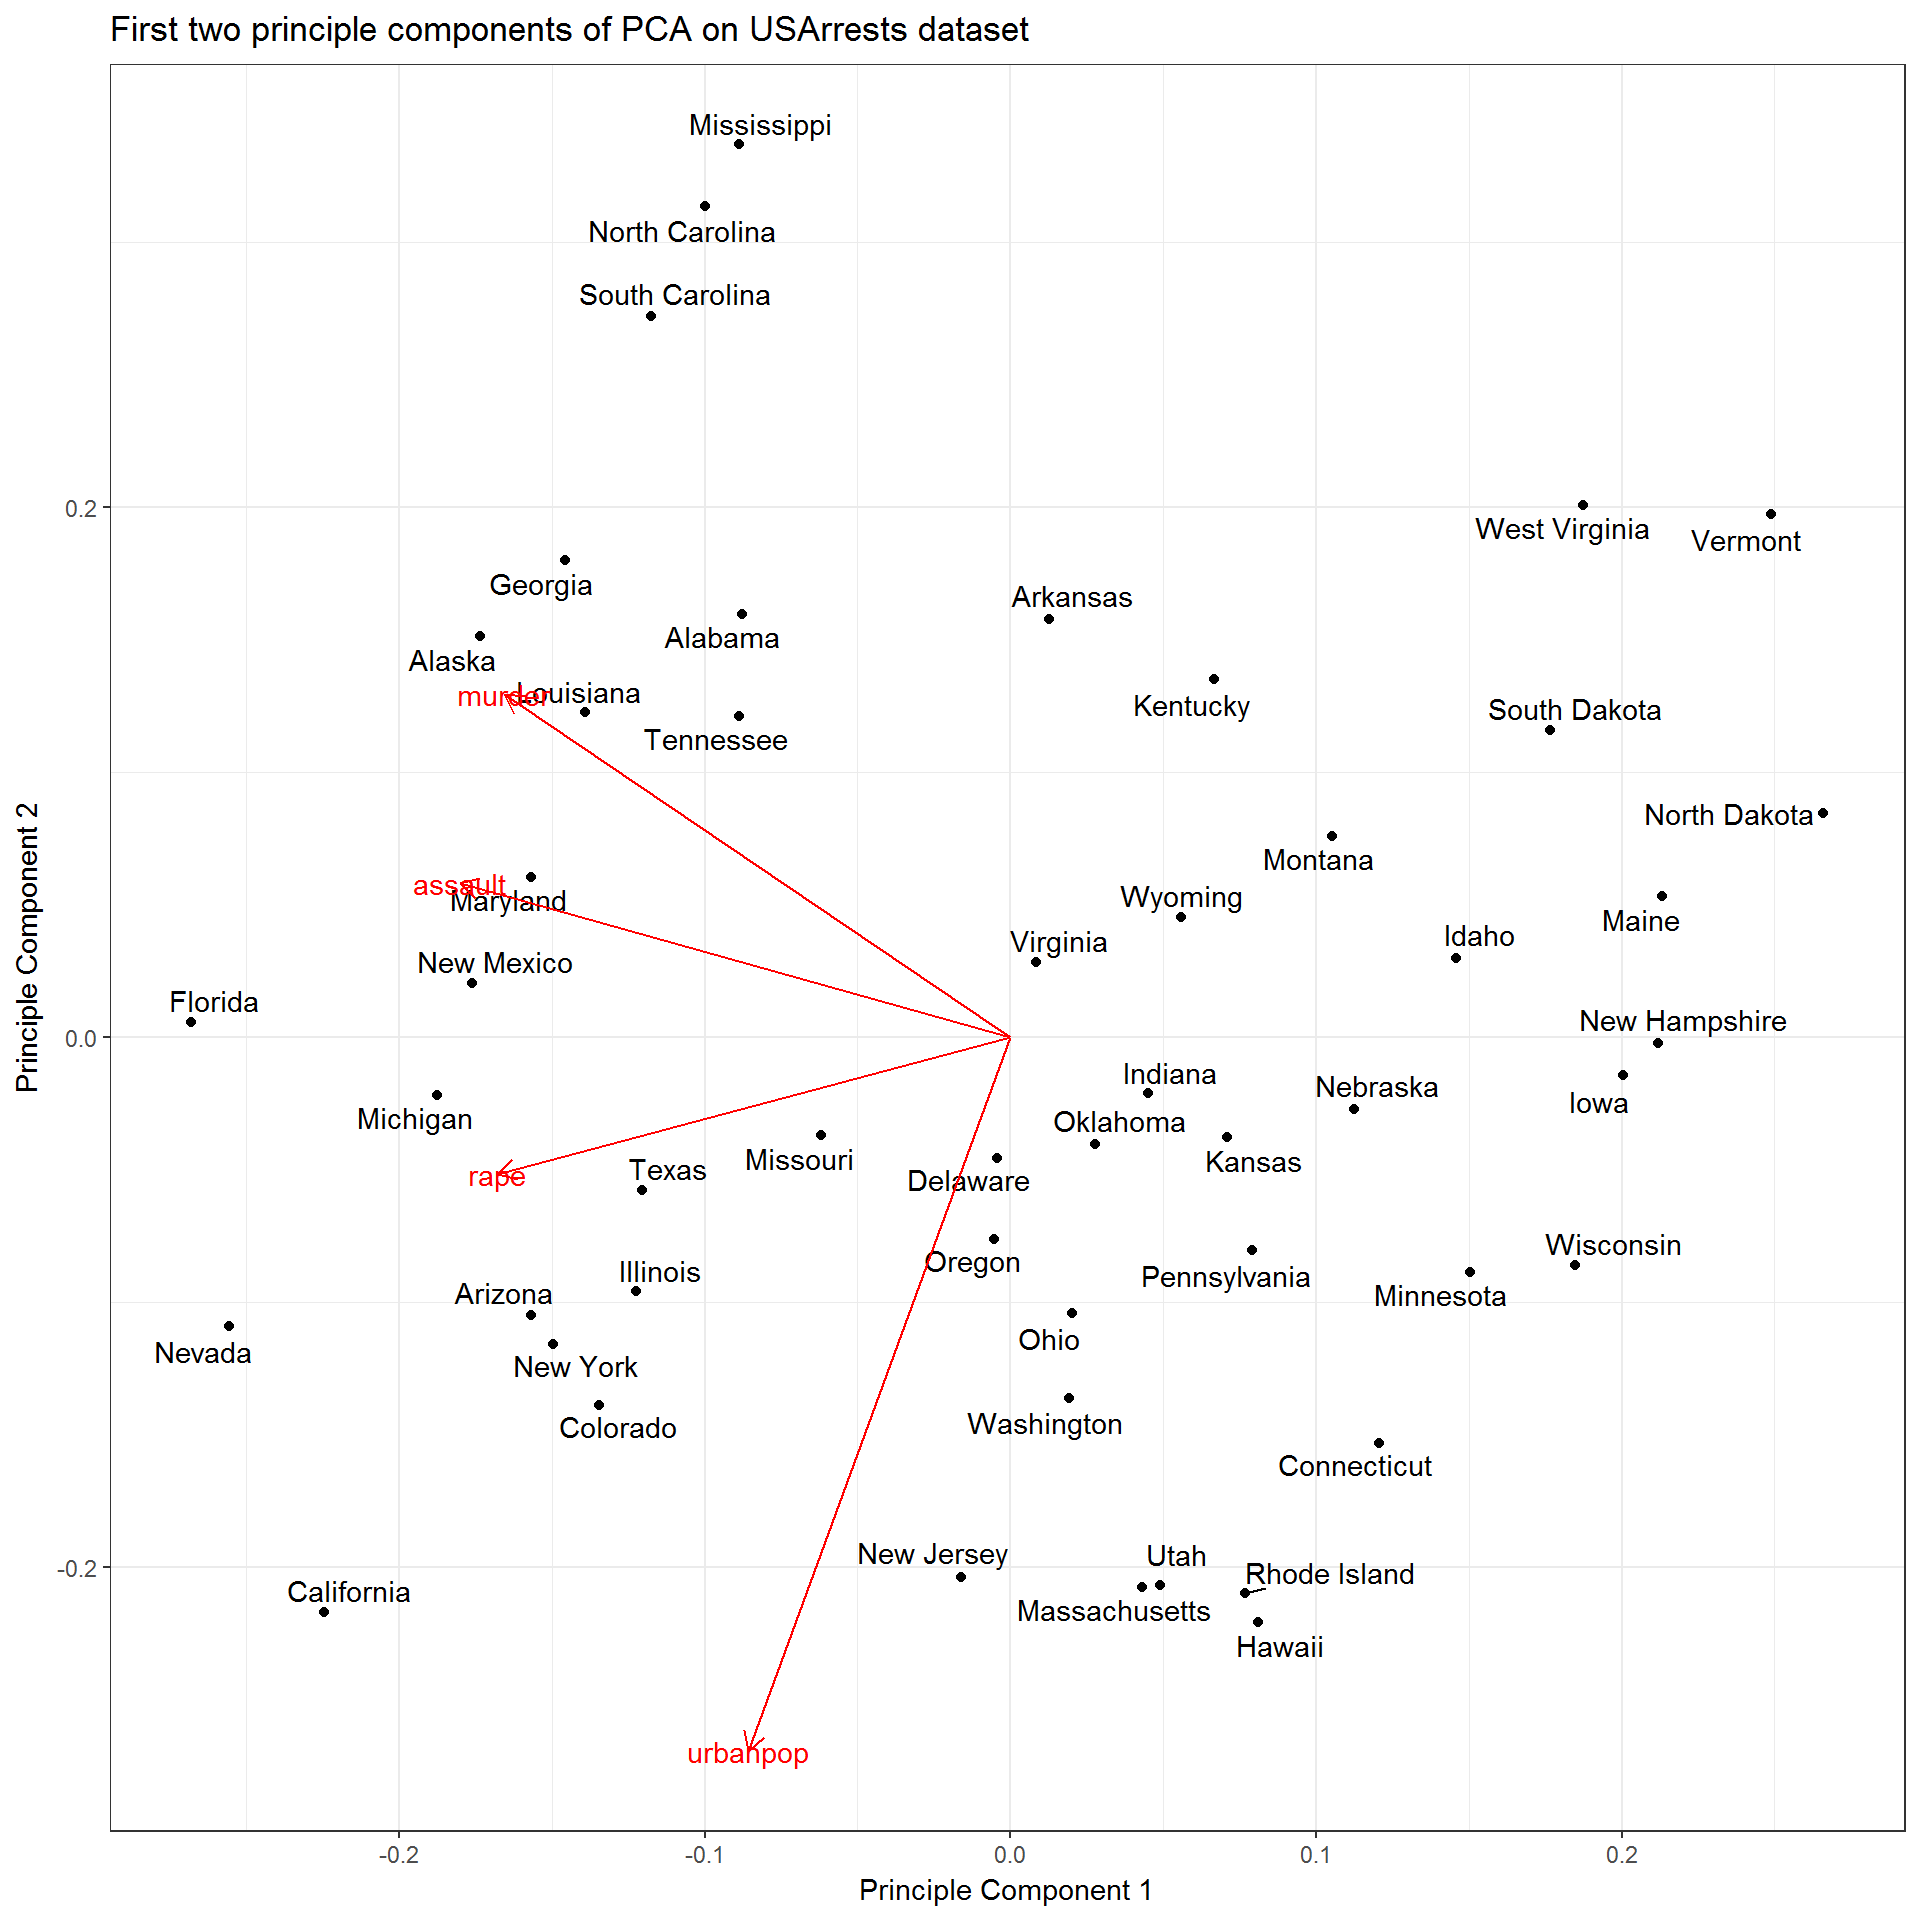
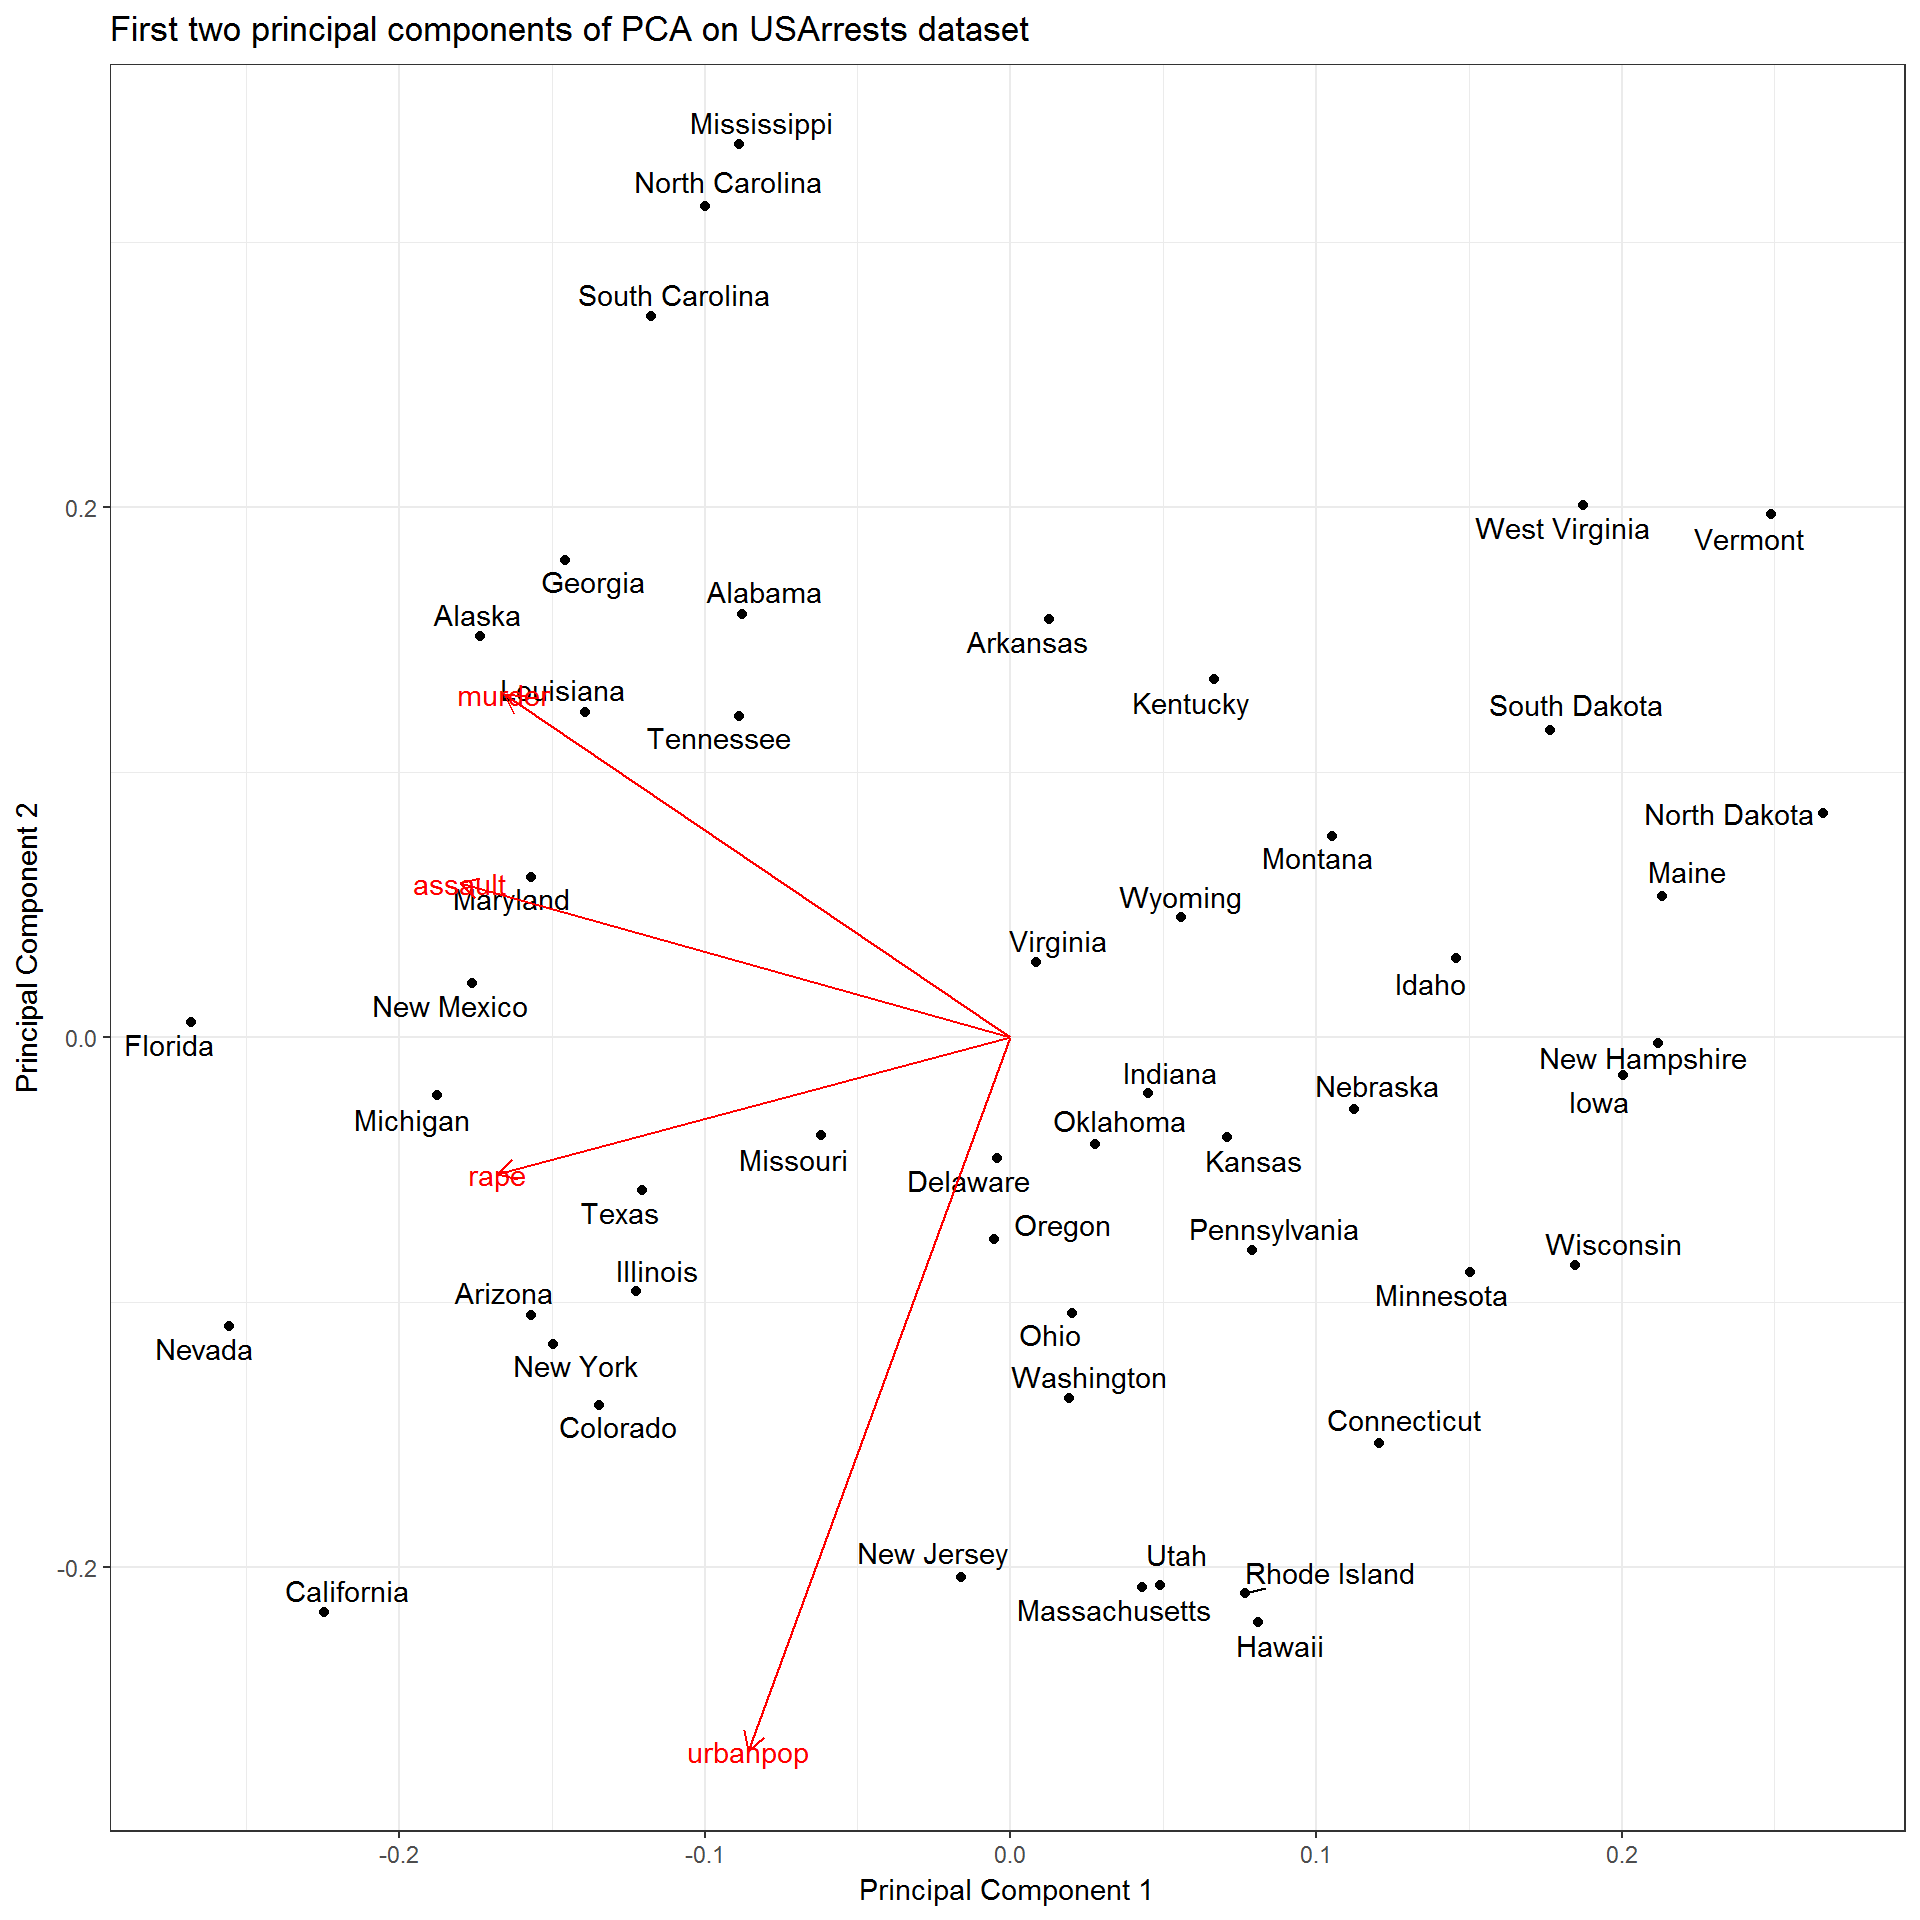
fixed spelling error

diff --git a/content/post/2018-02-01-pca-in-a-tidy-verse-framework.html b/content/post/2018-02-01-pca-in-a-tidy-verse-framework.html
@@ -17,8 +17,8 @@ tags:
 
 <div id="introduction" class="section level1">
 <h1>Introduction</h1>
-<p>The other day, a <a href="https://community.rstudio.com/t/tidyverse-solutions-for-factor-analysis-principal-component-analysis/4504">question</a> was posted on <a href="https://community.rstudio.com/">RStudio Community</a> about performing Principle Component Analysis (PCA) in a <a href="https://www.tidyverse.org/">tidyverse</a> workflow. Conveniently, I had literally just worked through this process the day before and was able to post an <a href="https://community.rstudio.com/t/tidyverse-solutions-for-factor-analysis-principal-component-analysis/4504/2">answer</a>. While most questions and answers are good as they are on forum sites, I thought this one might be worth exploring a little more since using the tidyverse framework makes PCA much easier, in my opinion.</p>
-<p>PCA is a multi-variate statistical technique for dimension reduction. Essentially, it allows you to take a data set that has n continuous variables and relate them through n orthogonal dimensions. This is a method of unsupervised learning that allows you to better understand the variability in the data set and how different variables are related. While there are the same number of principle components created as there are variables (assuming you have more observations than variables-but that is another issue), each principle component explains the maximum possible variation in the data conditional on it being orthogonal, or perpendicular, to the previous principle components.</p>
+<p>The other day, a <a href="https://community.rstudio.com/t/tidyverse-solutions-for-factor-analysis-principal-component-analysis/4504">question</a> was posted on <a href="https://community.rstudio.com/">RStudio Community</a> about performing Principal Component Analysis (PCA) in a <a href="https://www.tidyverse.org/">tidyverse</a> workflow. Conveniently, I had literally just worked through this process the day before and was able to post an <a href="https://community.rstudio.com/t/tidyverse-solutions-for-factor-analysis-principal-component-analysis/4504/2">answer</a>. While most questions and answers are good as they are on forum sites, I thought this one might be worth exploring a little more since using the tidyverse framework makes PCA much easier, in my opinion.</p>
+<p>PCA is a multi-variate statistical technique for dimension reduction. Essentially, it allows you to take a data set that has n continuous variables and relate them through n orthogonal dimensions. This is a method of unsupervised learning that allows you to better understand the variability in the data set and how different variables are related. While there are the same number of principal components created as there are variables (assuming you have more observations than variables-but that is another issue), each principal component explains the maximum possible variation in the data conditional on it being orthogonal, or perpendicular, to the previous principal components.</p>
 <p>In my answer, I used the <code>iris</code> data set to demonstrate how PCA can be done in the tidyverse workflow. For this post, I will be using the <code>USArrests</code> data set that was used in <a href="http://www-bcf.usc.edu/~gareth/ISL/index.html">An Introduction to Statistical Thinking</a> by Gareth James et. al. In this book, they work through a PCA and focus on the statistics and explanations behind PCA. This is how I learned how to do PCA and would highly recommend it if you are unfamiliar with the topic. In this blog post, my focus will be more on implementing the PCA in the tidyverse framework.</p>
 </div>
 <div id="exploring-the-data" class="section level1">
@@ -154,7 +154,7 @@ us_arrests_pca</code></pre>
 ##   data              pca          pca_aug               
 ##   &lt;list&gt;            &lt;list&gt;       &lt;list&gt;                
 ## 1 &lt;tibble [50 x 5]&gt; &lt;S3: prcomp&gt; &lt;data.frame [50 x 10]&gt;</code></pre>
-<p>As you can see, we now have a tibble with one row and three columns. The first is our original data set, the second is the <code>prcomp</code> object and the third is a data frame containing the principle component values for each observation. Now we have everything we need to evaluate the results of the model. First, it is important to look at how much variance is explained by each principle component. This will tell you how many of the components you need to look at when analyzing the results. To do this, you can use the data in the <code>pca_aug</code> column of our <code>us_arrests_pca</code> tibble along with some <code>dplyr</code> functions.</p>
+<p>As you can see, we now have a tibble with one row and three columns. The first is our original data set, the second is the <code>prcomp</code> object and the third is a data frame containing the principal component values for each observation. Now we have everything we need to evaluate the results of the model. First, it is important to look at how much variance is explained by each principal component. This will tell you how many of the components you need to look at when analyzing the results. To do this, you can use the data in the <code>pca_aug</code> column of our <code>us_arrests_pca</code> tibble along with some <code>dplyr</code> functions.</p>
 <pre class="r"><code>var_exp &lt;- us_arrests_pca %&gt;% 
   unnest(pca_aug) %&gt;% 
   summarize_at(.vars = vars(contains(&quot;PC&quot;)), .funs = funs(var)) %&gt;% 
@@ -171,7 +171,7 @@ var_exp</code></pre>
 ## 2 PC2      0.990  0.247        0.868
 ## 3 PC3      0.357  0.0891       0.957
 ## 4 PC4      0.173  0.0434       1.00</code></pre>
-<p>We can see that the first principle component explains 62% of the variation and that the second principle component explains 25% of the remaining variation. Together, we can see that they explain 87% of the variance in the data set. As a general rule of thumb, you want to look at enough principle components to explain ~90% of your data’s variability.</p>
+<p>We can see that the first principal component explains 62% of the variation and that the second principal component explains 25% of the remaining variation. Together, we can see that they explain 87% of the variance in the data set. As a general rule of thumb, you want to look at enough principal components to explain ~90% of your data’s variability.</p>
 <p>Another way of assessing this is to plot the variance explained and the cumulative variance explained and look for the “elbow” in the graph. You can do that like this:</p>
 <pre class="r"><code>var_exp %&gt;% 
   rename(
@@ -186,9 +186,9 @@ var_exp</code></pre>
   theme_bw() +
   lims(y = c(0, 1)) +
   labs(y = &quot;Variance&quot;,
-       title = &quot;Variance explained by each principle component&quot;)</code></pre>
+       title = &quot;Variance explained by each principal component&quot;)</code></pre>
 <p><img src="/post/2018-02-01-pca-in-a-tidy-verse-framework_files/figure-html/var-exp-graph-1.png" width="768" style="display: block; margin: auto;" /></p>
-<p>Since the majority of the variance is explained by the first two principle components, let’s plot them against each other. Luckily, this is made easy by the <code>ggplot2</code> and <code>ggfortify</code> packages which gives an <code>autoplot</code> method for prcomp objects. Conveniently, we still have our <code>prcomp</code> object stored in the our <code>us_arrests_pca</code> tibble along with our original data. This is important as the original data is needed to add labels and/or colors to your ggplot based on discrete variables not included in the PCA. Using the same <code>mutate</code> and <code>map</code> combo as before, along with the handy <code>dplyr::pull</code> function, we can plot this graph. <code>autoplot.prcomp()</code> can take any arguments that can be passed to <code>ggbiplot()</code>, so to see all of your options use <code>?ggbiplot</code>.</p>
+<p>Since the majority of the variance is explained by the first two principal components, let’s plot them against each other. Luckily, this is made easy by the <code>ggplot2</code> and <code>ggfortify</code> packages which gives an <code>autoplot</code> method for prcomp objects. Conveniently, we still have our <code>prcomp</code> object stored in the our <code>us_arrests_pca</code> tibble along with our original data. This is important as the original data is needed to add labels and/or colors to your ggplot based on discrete variables not included in the PCA. Using the same <code>mutate</code> and <code>map</code> combo as before, along with the handy <code>dplyr::pull</code> function, we can plot this graph. <code>autoplot.prcomp()</code> can take any arguments that can be passed to <code>ggbiplot()</code>, so to see all of your options use <code>?ggbiplot</code>.</p>
 <pre class="r"><code>us_arrests_pca %&gt;%
   mutate(
     pca_graph = map2(
@@ -200,16 +200,16 @@ var_exp</code></pre>
                  label.label = &quot;state&quot;,
                  label.repel = TRUE) +
         theme_bw() +
-        labs(x = &quot;Principle Component 1&quot;,
-             y = &quot;Principle Component 2&quot;,
-             title = &quot;First two principle components of PCA on USArrests dataset&quot;)
+        labs(x = &quot;Principal Component 1&quot;,
+             y = &quot;Principal Component 2&quot;,
+             title = &quot;First two principal components of PCA on USArrests dataset&quot;)
     )
   ) %&gt;%
   pull(pca_graph)</code></pre>
 <pre><code>## [[1]]</code></pre>
 <p><img src="/post/2018-02-01-pca-in-a-tidy-verse-framework_files/figure-html/pca-plot-1.png" width="960" style="display: block; margin: auto;" /></p>
 <p>If you notice the <code>[[1]]</code> above the graph, this method would automatically print each graph in the <code>pca_graph</code> column. This means that if you fit multiple pca graphs onto a grouped data set then this would automatically print all of the figures for you in one command. Another important thing to notice is the the <code>autoplot()</code> function simply returns a <code>gg</code> object and that can be extended just like any other <code>ggplot</code>.</p>
-<p>Looking at this figure, we are getting a lot more information about how these variables are related. For example, we can see that murder, rape, and assault arrest rates all have similar values alone the first principle component, which indicates that they are correlated with one another. We may have been able to figure that out using more basic methods, but this method allows us to see it in one figure. In addition, we are able to see how each of the observations in the data (i.e. states) relates to the variables. For example, California is characterized by high arrest rates (1st principle component) and high urban population (2nd principle component).</p>
+<p>Looking at this figure, we are getting a lot more information about how these variables are related. For example, we can see that murder, rape, and assault arrest rates all have similar values alone the first principal component, which indicates that they are correlated with one another. We may have been able to figure that out using more basic methods, but this method allows us to see it in one figure. In addition, we are able to see how each of the observations in the data (i.e. states) relates to the variables. For example, California is characterized by high arrest rates (1st principal component) and high urban population (2nd principal component).</p>
 </div>
 <div id="conclusion" class="section level1">
 <h1>Conclusion</h1>
